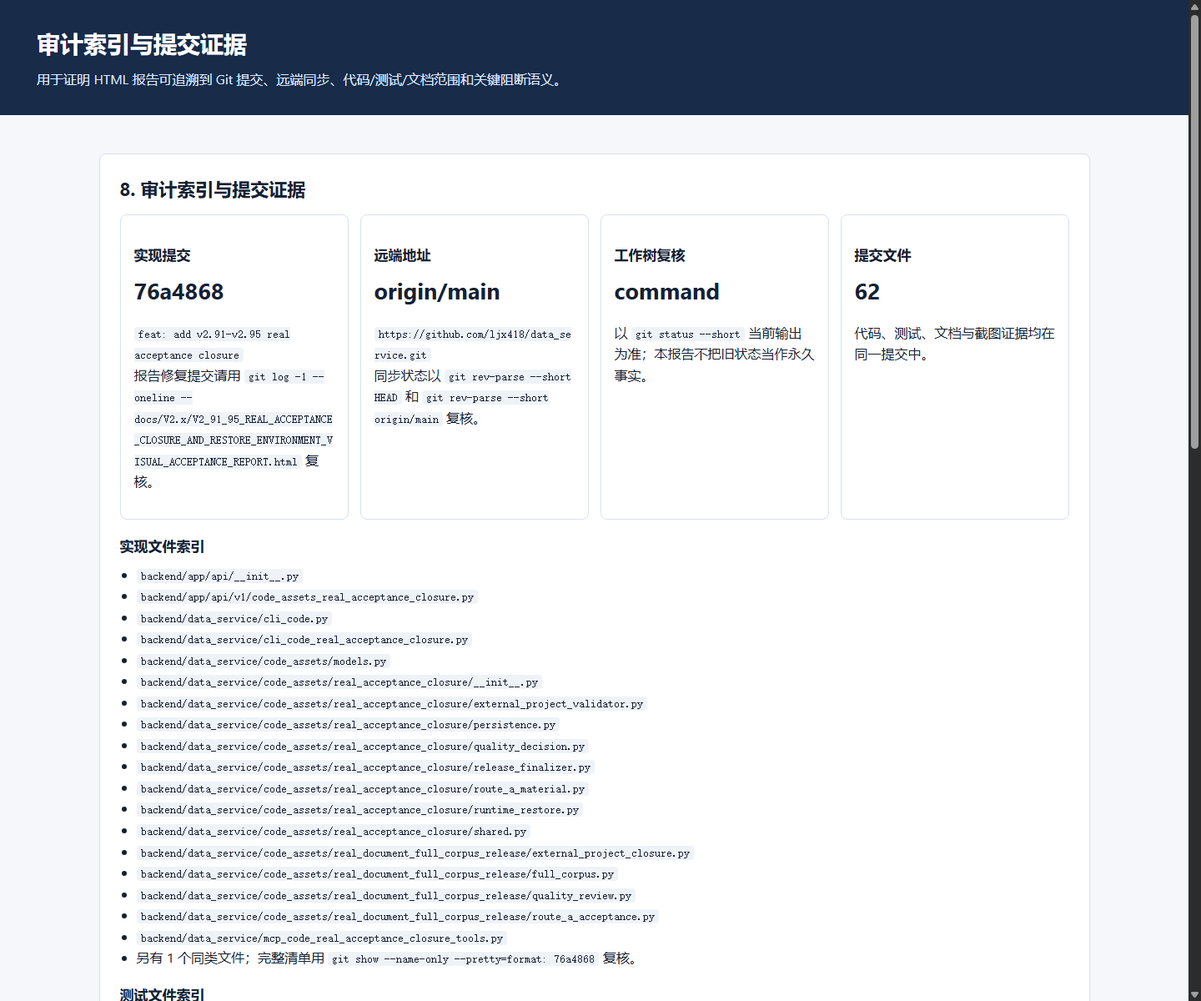
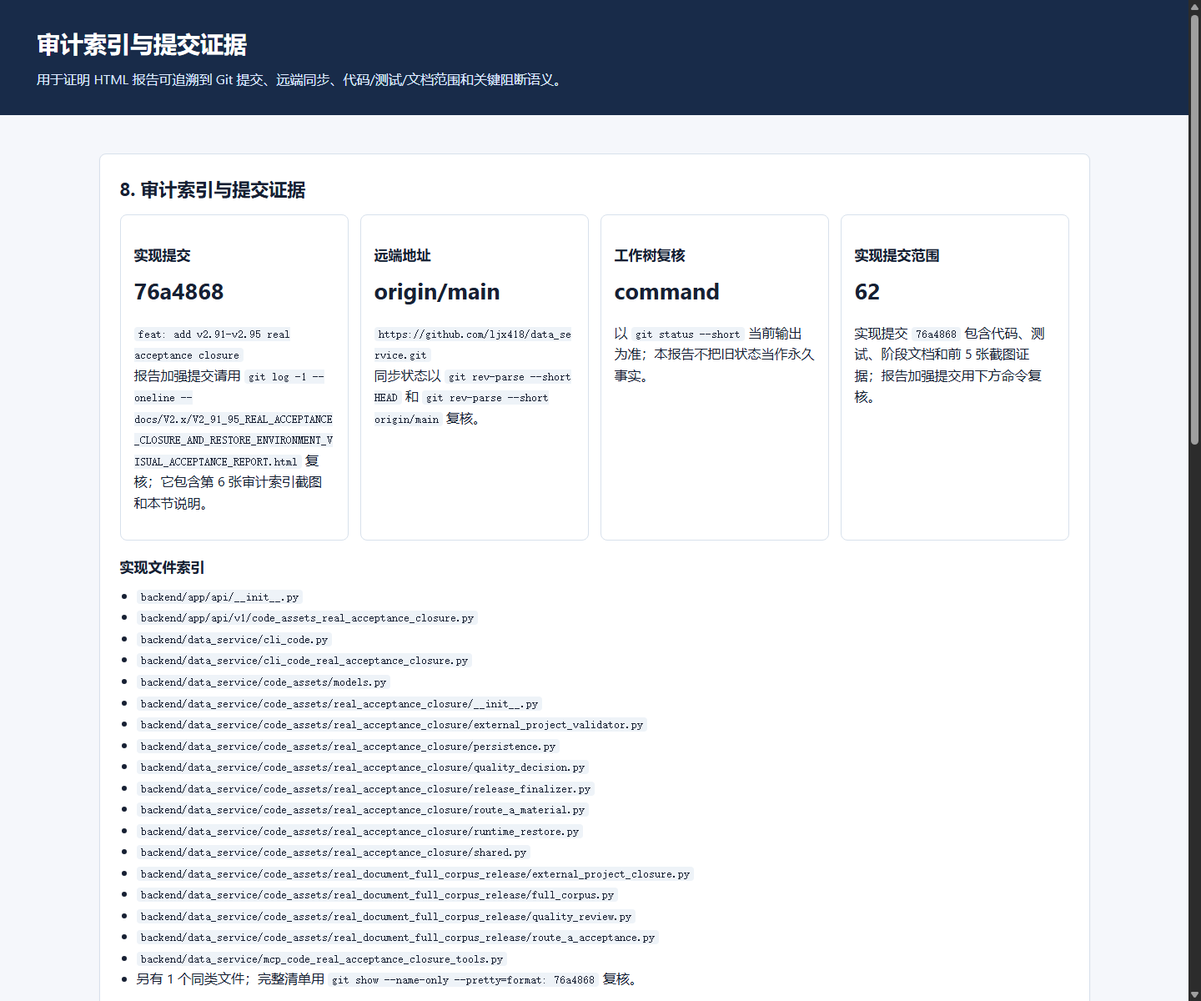
docs: clarify v2.91-v2.95 audit traceability

diff --git a/docs/V2.x/V2_91_95_REAL_ACCEPTANCE_CLOSURE_AND_RESTORE_ENVIRONMENT_VISUAL_ACCEPTANCE_REPORT.html b/docs/V2.x/V2_91_95_REAL_ACCEPTANCE_CLOSURE_AND_RESTORE_ENVIRONMENT_VISUAL_ACCEPTANCE_REPORT.html
@@ -30,8 +30,8 @@
 <tr><td>protected_legacy_diff</td><td><span class="badge ok">accepted</span></td><td>证据完整或无阻断</td></tr>
 <tr><td>prd_spec_review</td><td><span class="badge ok">accepted</span></td><td>证据完整或无阻断</td></tr>
 <tr><td>human_approval</td><td><span class="badge warn">needs_review</span></td><td>human_approval is not accepted</td></tr></tbody></table><p class="note">False-green audit 通过的含义是：系统拒绝 final accepted claim，而不是 final release 已通过。</p></section>
-<section class="section"><h2>7. 截图证据 Manifest</h2><table><thead><tr><th>截图</th><th>主题</th><th>证明内容</th><th>尺寸</th><th>字节数</th><th>sha256</th></tr></thead><tbody><tr><td><code>01_overview.png</code></td><td>总览状态</td><td>展示实现范围通过、最终 release gate 阻断和各子阶段状态。</td><td>1440 x 1200</td><td>63364</td><td><code>29b043270314271b456657d1407e10edfd96d40c8590bd74e4eda8be7669349c</code></td></tr><tr><td><code>02_architecture.png</code></td><td>目标架构与当前实现</td><td>展示 public surface、服务实现层、证据层和边界。</td><td>1440 x 1200</td><td>82657</td><td><code>ff89b044612d9067eb555b5edc5d3c99397f6279d829406795f4679774fc1a9f</code></td></tr><tr><td><code>03_user_path.png</code></td><td>用户场景体验路径</td><td>展示维护者从恢复环境到出门判断的真实体验链路。</td><td>1440 x 1200</td><td>69580</td><td><code>551c1101eeffad781479e9cbf6d4658788ddc67dc0c261240b9c3a18104f2e45</code></td></tr><tr><td><code>04_acceptance_matrix.png</code></td><td>验收矩阵</td><td>展示 runtime 命令、release gate 检查和真实阻断项。</td><td>1440 x 1200</td><td>105333</td><td><code>c72df3a61b9fe80bc3246a5d2f7c4d4837bdbcd22565685585d4aec21381bb39</code></td></tr><tr><td><code>05_evidence_manifest.png</code></td><td>证据与复现清单</td><td>展示测试、编译、diff、legacy guard、CLI caveat 和外部项目状态。</td><td>1440 x 1200</td><td>69668</td><td><code>93c7a7d1bccf666c67e945eb6b46838163e67a423c087adff73c1e526a940c5c</code></td></tr><tr><td><code>06_audit_index.png</code></td><td>审计索引与提交证据</td><td>展示实现提交、远端复核命令、完整文件索引入口、raw artifact 边界和关键阻断语义。</td><td>1440 x 1200</td><td>86903</td><td><code>1f50d263e7e4356daa062143cc2f7710fc208247a4324d849e672732e33334d1</code></td></tr></tbody></table><div class="screens"><figure><img src="visual_acceptance_assets/v2_91_95/01_overview.png" alt="总览状态"><figcaption>总览状态：展示实现范围通过、最终 release gate 阻断和各子阶段状态。 sha256=29b043270314271b...</figcaption></figure><figure><img src="visual_acceptance_assets/v2_91_95/02_architecture.png" alt="目标架构与当前实现"><figcaption>目标架构与当前实现：展示 public surface、服务实现层、证据层和边界。 sha256=ff89b044612d9067...</figcaption></figure><figure><img src="visual_acceptance_assets/v2_91_95/03_user_path.png" alt="用户场景体验路径"><figcaption>用户场景体验路径：展示维护者从恢复环境到出门判断的真实体验链路。 sha256=551c1101eeffad78...</figcaption></figure><figure><img src="visual_acceptance_assets/v2_91_95/04_acceptance_matrix.png" alt="验收矩阵"><figcaption>验收矩阵：展示 runtime 命令、release gate 检查和真实阻断项。 sha256=c72df3a61b9fe80b...</figcaption></figure><figure><img src="visual_acceptance_assets/v2_91_95/05_evidence_manifest.png" alt="证据与复现清单"><figcaption>证据与复现清单：展示测试、编译、diff、legacy guard、CLI caveat 和外部项目状态。 sha256=93c7a7d1bccf666c...</figcaption></figure><figure><img src="visual_acceptance_assets/v2_91_95/06_audit_index.png" alt="审计索引与提交证据"><figcaption>审计索引与提交证据：展示实现提交、远端复核命令、完整文件索引入口、raw artifact 边界和关键阻断语义。 sha256=1f50d263e7e4356d...</figcaption></figure></div></section>
-<section class="section"><h2>8. 审计索引与提交证据</h2><div class="grid"><div class="card"><h3>实现提交</h3><div class="metric">76a4868</div><p><code>feat: add v2.91-v2.95 real acceptance closure</code><br>报告修复提交请用 <code>git log -1 --oneline -- docs/V2.x/V2_91_95_REAL_ACCEPTANCE_CLOSURE_AND_RESTORE_ENVIRONMENT_VISUAL_ACCEPTANCE_REPORT.html</code> 复核。</p></div><div class="card"><h3>远端地址</h3><div class="metric">origin/main</div><p><code>https://github.com/ljx418/data_service.git</code><br>同步状态以 <code>git rev-parse --short HEAD</code> 和 <code>git rev-parse --short origin/main</code> 复核。</p></div><div class="card"><h3>工作树复核</h3><div class="metric">command</div><p>以 <code>git status --short</code> 当前输出为准；本报告不把旧状态当作永久事实。</p></div><div class="card"><h3>提交文件</h3><div class="metric">62</div><p>代码、测试、文档与截图证据均在同一提交中。</p></div></div><h3>实现文件索引</h3><ul><li><code>backend/app/api/__init__.py</code></li><li><code>backend/app/api/v1/code_assets_real_acceptance_closure.py</code></li><li><code>backend/data_service/cli_code.py</code></li><li><code>backend/data_service/cli_code_real_acceptance_closure.py</code></li><li><code>backend/data_service/code_assets/models.py</code></li><li><code>backend/data_service/code_assets/real_acceptance_closure/__init__.py</code></li><li><code>backend/data_service/code_assets/real_acceptance_closure/external_project_validator.py</code></li><li><code>backend/data_service/code_assets/real_acceptance_closure/persistence.py</code></li><li><code>backend/data_service/code_assets/real_acceptance_closure/quality_decision.py</code></li><li><code>backend/data_service/code_assets/real_acceptance_closure/release_finalizer.py</code></li><li><code>backend/data_service/code_assets/real_acceptance_closure/route_a_material.py</code></li><li><code>backend/data_service/code_assets/real_acceptance_closure/runtime_restore.py</code></li><li><code>backend/data_service/code_assets/real_acceptance_closure/shared.py</code></li><li><code>backend/data_service/code_assets/real_document_full_corpus_release/external_project_closure.py</code></li><li><code>backend/data_service/code_assets/real_document_full_corpus_release/full_corpus.py</code></li><li><code>backend/data_service/code_assets/real_document_full_corpus_release/quality_review.py</code></li><li><code>backend/data_service/code_assets/real_document_full_corpus_release/route_a_acceptance.py</code></li><li><code>backend/data_service/mcp_code_real_acceptance_closure_tools.py</code></li><li>另有 1 个同类文件；完整清单用 <code>git show --name-only --pretty=format: 76a4868</code> 复核。</li></ul><h3>测试文件索引</h3><ul><li><code>backend/tests/test_public_surface_guard.py</code></li><li><code>backend/tests/test_v2_91_restoreable_acceptance_runtime.py</code></li><li><code>backend/tests/test_v2_92_route_a_material_closure.py</code></li><li><code>backend/tests/test_v2_93_human_quality_decision_closure.py</code></li><li><code>backend/tests/test_v2_94_external_project_path_e2e_closure.py</code></li><li><code>backend/tests/test_v2_95_final_release_gate_closure.py</code></li></ul><h3>文档与可视化证据索引</h3><ul><li><code>docs/V2.x/V2_91_95_REAL_ACCEPTANCE_CLOSURE_AND_RESTORE_ENVIRONMENT_DEVELOPMENT_AND_ACCEPTANCE_PLAN.md</code></li><li><code>docs/V2.x/V2_91_95_REAL_ACCEPTANCE_CLOSURE_AND_RESTORE_ENVIRONMENT_DOCUMENT_AUDIT_REPORT.md</code></li><li><code>docs/V2.x/V2_91_95_REAL_ACCEPTANCE_CLOSURE_AND_RESTORE_ENVIRONMENT_FULL_COVERAGE_MATRIX.md</code></li><li><code>docs/V2.x/V2_91_95_REAL_ACCEPTANCE_CLOSURE_AND_RESTORE_ENVIRONMENT_GAP_ANALYSIS.md</code></li><li><code>docs/V2.x/V2_91_95_REAL_ACCEPTANCE_CLOSURE_AND_RESTORE_ENVIRONMENT_IMPLEMENTATION_BLUEPRINT_AND_ACCEPTANCE_SPEC.md</code></li><li><code>docs/V2.x/V2_91_95_REAL_ACCEPTANCE_CLOSURE_AND_RESTORE_ENVIRONMENT_MILESTONES_AND_EXIT_GATES.md</code></li><li><code>docs/V2.x/V2_91_95_REAL_ACCEPTANCE_CLOSURE_AND_RESTORE_ENVIRONMENT_PHASE_167_171_DETAILED_DEVELOPMENT_AND_ACCEPTANCE_PACKAGE.md</code></li><li><code>docs/V2.x/V2_91_95_REAL_ACCEPTANCE_CLOSURE_AND_RESTORE_ENVIRONMENT_PHASE_READINESS_AND_SCHEMA_CONTRACTS.md</code></li><li><code>docs/V2.x/V2_91_95_REAL_ACCEPTANCE_CLOSURE_AND_RESTORE_ENVIRONMENT_PRD.md</code></li><li><code>docs/V2.x/V2_91_95_REAL_ACCEPTANCE_CLOSURE_AND_RESTORE_ENVIRONMENT_PRE_IMPLEMENTATION_AUDIT_REPORT.md</code></li><li><code>docs/V2.x/V2_91_95_REAL_ACCEPTANCE_CLOSURE_AND_RESTORE_ENVIRONMENT_STAGE_ACCEPTANCE_AUDIT_REPORT.md</code></li><li><code>docs/V2.x/V2_91_95_REAL_ACCEPTANCE_CLOSURE_AND_RESTORE_ENVIRONMENT_TARGET_ARCHITECTURE.md</code></li><li><code>docs/V2.x/V2_91_95_REAL_ACCEPTANCE_CLOSURE_AND_RESTORE_ENVIRONMENT_TARGET_STATE.drawio</code></li><li><code>docs/V2.x/V2_91_95_REAL_ACCEPTANCE_CLOSURE_AND_RESTORE_ENVIRONMENT_TEST_AND_E2E_MAPPING.md</code></li><li><code>docs/V2.x/V2_91_95_REAL_ACCEPTANCE_CLOSURE_AND_RESTORE_ENVIRONMENT_VISUAL_ACCEPTANCE_REPORT.html</code></li><li><code>docs/V2.x/V2_91_PHASE_167_ACCEPTANCE_AUDIT_REPORT.md</code></li><li><code>docs/V2.x/V2_91_PHASE_167_DEVELOPMENT_ACCEPTANCE_AND_PRE_IMPLEMENTATION_AUDIT.md</code></li><li><code>docs/V2.x/visual_acceptance_assets/v2_91_95/01_overview.html</code></li><li><code>docs/V2.x/visual_acceptance_assets/v2_91_95/01_overview.png</code></li><li><code>docs/V2.x/visual_acceptance_assets/v2_91_95/02_architecture.html</code></li><li><code>docs/V2.x/visual_acceptance_assets/v2_91_95/02_architecture.png</code></li><li><code>docs/V2.x/visual_acceptance_assets/v2_91_95/03_user_path.html</code></li><li><code>docs/V2.x/visual_acceptance_assets/v2_91_95/03_user_path.png</code></li><li><code>docs/V2.x/visual_acceptance_assets/v2_91_95/04_acceptance_matrix.html</code></li><li>另有 5 个同类文件；完整清单用 <code>git show --name-only --pretty=format: 76a4868</code> 复核。</li></ul><p class="note">本机 raw E2E artifacts 位于 <code>workspace/v2_91_95_stage_audit_e2e/...</code>，未提交到 Git；提交中保留的是 HTML 报告、截图证据、manifest、阶段审计文档和复现命令。人类复核时应按第 5 节命令重新生成或验证 raw artifacts。</p></section>
+<section class="section"><h2>7. 截图证据 Manifest</h2><table><thead><tr><th>截图</th><th>主题</th><th>证明内容</th><th>尺寸</th><th>字节数</th><th>sha256</th></tr></thead><tbody><tr><td><code>01_overview.png</code></td><td>总览状态</td><td>展示实现范围通过、最终 release gate 阻断和各子阶段状态。</td><td>1440 x 1200</td><td>63364</td><td><code>29b043270314271b456657d1407e10edfd96d40c8590bd74e4eda8be7669349c</code></td></tr><tr><td><code>02_architecture.png</code></td><td>目标架构与当前实现</td><td>展示 public surface、服务实现层、证据层和边界。</td><td>1440 x 1200</td><td>82657</td><td><code>ff89b044612d9067eb555b5edc5d3c99397f6279d829406795f4679774fc1a9f</code></td></tr><tr><td><code>03_user_path.png</code></td><td>用户场景体验路径</td><td>展示维护者从恢复环境到出门判断的真实体验链路。</td><td>1440 x 1200</td><td>69580</td><td><code>551c1101eeffad781479e9cbf6d4658788ddc67dc0c261240b9c3a18104f2e45</code></td></tr><tr><td><code>04_acceptance_matrix.png</code></td><td>验收矩阵</td><td>展示 runtime 命令、release gate 检查和真实阻断项。</td><td>1440 x 1200</td><td>105333</td><td><code>c72df3a61b9fe80bc3246a5d2f7c4d4837bdbcd22565685585d4aec21381bb39</code></td></tr><tr><td><code>05_evidence_manifest.png</code></td><td>证据与复现清单</td><td>展示测试、编译、diff、legacy guard、CLI caveat 和外部项目状态。</td><td>1440 x 1200</td><td>69668</td><td><code>93c7a7d1bccf666c67e945eb6b46838163e67a423c087adff73c1e526a940c5c</code></td></tr><tr><td><code>06_audit_index.png</code></td><td>审计索引与提交证据</td><td>展示实现提交范围、报告加强提交复核命令、raw artifact 边界和关键阻断语义。</td><td>1440 x 1200</td><td>90058</td><td><code>91a256cf44c9064e61b9f89553aba43f32dc3f8183810644c13fe38c335659dc</code></td></tr></tbody></table><div class="screens"><figure><img src="visual_acceptance_assets/v2_91_95/01_overview.png" alt="总览状态"><figcaption>总览状态：展示实现范围通过、最终 release gate 阻断和各子阶段状态。 sha256=29b043270314271b...</figcaption></figure><figure><img src="visual_acceptance_assets/v2_91_95/02_architecture.png" alt="目标架构与当前实现"><figcaption>目标架构与当前实现：展示 public surface、服务实现层、证据层和边界。 sha256=ff89b044612d9067...</figcaption></figure><figure><img src="visual_acceptance_assets/v2_91_95/03_user_path.png" alt="用户场景体验路径"><figcaption>用户场景体验路径：展示维护者从恢复环境到出门判断的真实体验链路。 sha256=551c1101eeffad78...</figcaption></figure><figure><img src="visual_acceptance_assets/v2_91_95/04_acceptance_matrix.png" alt="验收矩阵"><figcaption>验收矩阵：展示 runtime 命令、release gate 检查和真实阻断项。 sha256=c72df3a61b9fe80b...</figcaption></figure><figure><img src="visual_acceptance_assets/v2_91_95/05_evidence_manifest.png" alt="证据与复现清单"><figcaption>证据与复现清单：展示测试、编译、diff、legacy guard、CLI caveat 和外部项目状态。 sha256=93c7a7d1bccf666c...</figcaption></figure><figure><img src="visual_acceptance_assets/v2_91_95/06_audit_index.png" alt="审计索引与提交证据"><figcaption>审计索引与提交证据：展示实现提交范围、报告加强提交复核命令、raw artifact 边界和关键阻断语义。 sha256=91a256cf44c9064e...</figcaption></figure></div></section>
+<section class="section"><h2>8. 审计索引与提交证据</h2><div class="grid"><div class="card"><h3>实现提交</h3><div class="metric">76a4868</div><p><code>feat: add v2.91-v2.95 real acceptance closure</code><br>报告加强提交请用 <code>git log -1 --oneline -- docs/V2.x/V2_91_95_REAL_ACCEPTANCE_CLOSURE_AND_RESTORE_ENVIRONMENT_VISUAL_ACCEPTANCE_REPORT.html</code> 复核；它包含第 6 张审计索引截图和本节说明。</p></div><div class="card"><h3>远端地址</h3><div class="metric">origin/main</div><p><code>https://github.com/ljx418/data_service.git</code><br>同步状态以 <code>git rev-parse --short HEAD</code> 和 <code>git rev-parse --short origin/main</code> 复核。</p></div><div class="card"><h3>工作树复核</h3><div class="metric">command</div><p>以 <code>git status --short</code> 当前输出为准；本报告不把旧状态当作永久事实。</p></div><div class="card"><h3>实现提交范围</h3><div class="metric">62</div><p>实现提交 <code>76a4868</code> 包含代码、测试、阶段文档和前 5 张截图证据；报告加强提交用下方命令复核。</p></div></div><h3>实现文件索引</h3><ul><li><code>backend/app/api/__init__.py</code></li><li><code>backend/app/api/v1/code_assets_real_acceptance_closure.py</code></li><li><code>backend/data_service/cli_code.py</code></li><li><code>backend/data_service/cli_code_real_acceptance_closure.py</code></li><li><code>backend/data_service/code_assets/models.py</code></li><li><code>backend/data_service/code_assets/real_acceptance_closure/__init__.py</code></li><li><code>backend/data_service/code_assets/real_acceptance_closure/external_project_validator.py</code></li><li><code>backend/data_service/code_assets/real_acceptance_closure/persistence.py</code></li><li><code>backend/data_service/code_assets/real_acceptance_closure/quality_decision.py</code></li><li><code>backend/data_service/code_assets/real_acceptance_closure/release_finalizer.py</code></li><li><code>backend/data_service/code_assets/real_acceptance_closure/route_a_material.py</code></li><li><code>backend/data_service/code_assets/real_acceptance_closure/runtime_restore.py</code></li><li><code>backend/data_service/code_assets/real_acceptance_closure/shared.py</code></li><li><code>backend/data_service/code_assets/real_document_full_corpus_release/external_project_closure.py</code></li><li><code>backend/data_service/code_assets/real_document_full_corpus_release/full_corpus.py</code></li><li><code>backend/data_service/code_assets/real_document_full_corpus_release/quality_review.py</code></li><li><code>backend/data_service/code_assets/real_document_full_corpus_release/route_a_acceptance.py</code></li><li><code>backend/data_service/mcp_code_real_acceptance_closure_tools.py</code></li><li>另有 1 个同类文件；完整清单用 <code>git show --name-only --pretty=format: 76a4868</code> 复核。</li></ul><h3>测试文件索引</h3><ul><li><code>backend/tests/test_public_surface_guard.py</code></li><li><code>backend/tests/test_v2_91_restoreable_acceptance_runtime.py</code></li><li><code>backend/tests/test_v2_92_route_a_material_closure.py</code></li><li><code>backend/tests/test_v2_93_human_quality_decision_closure.py</code></li><li><code>backend/tests/test_v2_94_external_project_path_e2e_closure.py</code></li><li><code>backend/tests/test_v2_95_final_release_gate_closure.py</code></li></ul><h3>文档与可视化证据索引</h3><ul><li><code>docs/V2.x/V2_91_95_REAL_ACCEPTANCE_CLOSURE_AND_RESTORE_ENVIRONMENT_DEVELOPMENT_AND_ACCEPTANCE_PLAN.md</code></li><li><code>docs/V2.x/V2_91_95_REAL_ACCEPTANCE_CLOSURE_AND_RESTORE_ENVIRONMENT_DOCUMENT_AUDIT_REPORT.md</code></li><li><code>docs/V2.x/V2_91_95_REAL_ACCEPTANCE_CLOSURE_AND_RESTORE_ENVIRONMENT_FULL_COVERAGE_MATRIX.md</code></li><li><code>docs/V2.x/V2_91_95_REAL_ACCEPTANCE_CLOSURE_AND_RESTORE_ENVIRONMENT_GAP_ANALYSIS.md</code></li><li><code>docs/V2.x/V2_91_95_REAL_ACCEPTANCE_CLOSURE_AND_RESTORE_ENVIRONMENT_IMPLEMENTATION_BLUEPRINT_AND_ACCEPTANCE_SPEC.md</code></li><li><code>docs/V2.x/V2_91_95_REAL_ACCEPTANCE_CLOSURE_AND_RESTORE_ENVIRONMENT_MILESTONES_AND_EXIT_GATES.md</code></li><li><code>docs/V2.x/V2_91_95_REAL_ACCEPTANCE_CLOSURE_AND_RESTORE_ENVIRONMENT_PHASE_167_171_DETAILED_DEVELOPMENT_AND_ACCEPTANCE_PACKAGE.md</code></li><li><code>docs/V2.x/V2_91_95_REAL_ACCEPTANCE_CLOSURE_AND_RESTORE_ENVIRONMENT_PHASE_READINESS_AND_SCHEMA_CONTRACTS.md</code></li><li><code>docs/V2.x/V2_91_95_REAL_ACCEPTANCE_CLOSURE_AND_RESTORE_ENVIRONMENT_PRD.md</code></li><li><code>docs/V2.x/V2_91_95_REAL_ACCEPTANCE_CLOSURE_AND_RESTORE_ENVIRONMENT_PRE_IMPLEMENTATION_AUDIT_REPORT.md</code></li><li><code>docs/V2.x/V2_91_95_REAL_ACCEPTANCE_CLOSURE_AND_RESTORE_ENVIRONMENT_STAGE_ACCEPTANCE_AUDIT_REPORT.md</code></li><li><code>docs/V2.x/V2_91_95_REAL_ACCEPTANCE_CLOSURE_AND_RESTORE_ENVIRONMENT_TARGET_ARCHITECTURE.md</code></li><li><code>docs/V2.x/V2_91_95_REAL_ACCEPTANCE_CLOSURE_AND_RESTORE_ENVIRONMENT_TARGET_STATE.drawio</code></li><li><code>docs/V2.x/V2_91_95_REAL_ACCEPTANCE_CLOSURE_AND_RESTORE_ENVIRONMENT_TEST_AND_E2E_MAPPING.md</code></li><li><code>docs/V2.x/V2_91_95_REAL_ACCEPTANCE_CLOSURE_AND_RESTORE_ENVIRONMENT_VISUAL_ACCEPTANCE_REPORT.html</code></li><li><code>docs/V2.x/V2_91_PHASE_167_ACCEPTANCE_AUDIT_REPORT.md</code></li><li><code>docs/V2.x/V2_91_PHASE_167_DEVELOPMENT_ACCEPTANCE_AND_PRE_IMPLEMENTATION_AUDIT.md</code></li><li><code>docs/V2.x/visual_acceptance_assets/v2_91_95/01_overview.html</code></li><li><code>docs/V2.x/visual_acceptance_assets/v2_91_95/01_overview.png</code></li><li><code>docs/V2.x/visual_acceptance_assets/v2_91_95/02_architecture.html</code></li><li><code>docs/V2.x/visual_acceptance_assets/v2_91_95/02_architecture.png</code></li><li><code>docs/V2.x/visual_acceptance_assets/v2_91_95/03_user_path.html</code></li><li><code>docs/V2.x/visual_acceptance_assets/v2_91_95/03_user_path.png</code></li><li><code>docs/V2.x/visual_acceptance_assets/v2_91_95/04_acceptance_matrix.html</code></li><li>另有 5 个同类文件；完整清单用 <code>git show --name-only --pretty=format: 76a4868</code> 复核。</li></ul><p class="note">本机 raw E2E artifacts 位于 <code>workspace/v2_91_95_stage_audit_e2e/...</code>，未提交到 Git；Git 中保留的是 HTML 报告、截图证据、manifest、阶段审计文档和复现命令。人类复核时应按第 5 节命令重新生成或验证 raw artifacts。</p></section>
 <section class="section"><h2>9. 关键阻断语义说明</h2><table><thead><tr><th>现象</th><th>不能误判为</th><th>正确审计解释</th></tr></thead><tbody><tr><td>focused regression accepted</td><td>V2.91 Runtime accepted</td><td>focused regression 只是 runtime 的一个子检查；venv 创建失败时 runtime 仍必须是 structured_blocker。</td></tr><tr><td>V2.86 Full Corpus 曾在上一阶段 accepted</td><td>本轮 V2.95 fresh release gate 自动 accepted</td><td>本轮 fresh stage audit workspace 未重新注入 Route B / Full Corpus 上游 artifacts，因此 final gate 中对应项保持 needs_review。该结果用于证明 release gate 不会凭文档 claim 放行。</td></tr><tr><td>data_service external smoke 可执行</td><td>所有外部项目 E2E accepted</td><td>codexPat、HarnessOS、Navia 缺真实可读路径，必须保持 structured_unavailable。</td></tr><tr><td>report 有截图</td><td>Route A 人工验收完成</td><td>截图证明报告呈现和审计路径，不替代用户代表性真实资料、脱敏审查和人工验收记录。</td></tr><tr><td>MCP/HTTP/parser inventory 已测试</td><td>默认 shell CLI accepted</td><td><code>python -m data_service code real-acceptance-closure --help</code> 当前仍被 legacy parser 拒绝，报告已列为 CLI execution gap。</td></tr></tbody></table></section>
 <section class="section"><h2>10. 人类复核清单</h2><ol><li>复核第 2 节 PRD 能力是否全部映射到真实状态。</li><li>复核第 3 节代码实体和当前架构差异是否清楚。</li><li>复跑第 5 节命令，确认 focused tests、compileall、diff check 和 protected diff。</li><li>确认第 6 节没有把 Route A、质量人工审查、外部项目和 human approval 写成 accepted。</li><li>查看第 7 节截图、尺寸和 sha256，确认截图与报告结论一致。</li></ol></section>
 <section class="section"><h2>11. 最终验收评价</h2><p><strong>阶段性自动化开发验收：通过，但带真实阻断。</strong> 本阶段文档完整支撑的实现面、测试面、公开接口面和审计面已完成并可复核；本报告已补齐提交证据、文件索引、截图 manifest 和关键阻断语义说明。</p><p><strong>最终出门验收：不通过。</strong> 不通过原因不是代码测试失败，而是本机 venv 创建支持、Route A 真实资料、人工质量决策、外部项目路径、dependency hygiene 和 human approval 仍缺真实证据。</p></section>

diff --git a/docs/V2.x/visual_acceptance_assets/v2_91_95/06_audit_index.html b/docs/V2.x/visual_acceptance_assets/v2_91_95/06_audit_index.html
@@ -1,3 +1,3 @@
 <!doctype html><html lang="zh-CN"><head><meta charset="utf-8"><title>审计索引与提交证据</title><style>
 :root{--bg:#f5f7fb;--panel:#fff;--ink:#172033;--muted:#5d6b82;--line:#d8e1ec;--ok:#137a4a;--warn:#9b6a00;--blocked:#92370f;--bad:#b42318;--blue:#265da8;--teal:#0b7b72;--purple:#68469b}*{box-sizing:border-box}body{margin:0;background:var(--bg);color:var(--ink);font-family:-apple-system,BlinkMacSystemFont,"Segoe UI","Microsoft YaHei",Arial,sans-serif;line-height:1.58}header{background:#182b49;color:#fff;padding:30px 44px}header h1{margin:0;font-size:28px;letter-spacing:0}header p{margin:8px 0 0;color:#dbe8ff}.wrap{max-width:1240px;margin:0 auto;padding:26px}.section{background:var(--panel);border:1px solid var(--line);border-radius:8px;padding:24px;margin:20px 0;box-shadow:0 1px 2px rgba(16,24,40,.06)}h2{font-size:22px;margin:0 0 14px}h3{font-size:17px;margin:18px 0 8px}.grid{display:grid;grid-template-columns:repeat(4,1fr);gap:14px}.card{border:1px solid var(--line);border-radius:8px;padding:16px;background:#fff}.metric{font-size:27px;font-weight:780;overflow-wrap:anywhere}.badge{display:inline-block;border:1px solid currentColor;border-radius:999px;padding:3px 10px;font-size:12px;font-weight:750;white-space:nowrap}.ok{color:var(--ok);background:#ecfdf3}.warn{color:var(--warn);background:#fff8df}.blocked{color:var(--blocked);background:#fff1e8}.unavailable{color:#6941c6;background:#f4f0ff}.bad{color:var(--bad);background:#fef3f2}table{border-collapse:collapse;width:100%;font-size:14px}th,td{border:1px solid var(--line);padding:10px 12px;text-align:left;vertical-align:top}th{background:#eef3f8}.layers{display:grid;grid-template-columns:1fr 1fr 1fr;gap:14px}.layer{border:1px solid var(--line);border-left:6px solid var(--blue);border-radius:8px;padding:16px;background:#fbfdff}.layer:nth-child(2){border-left-color:var(--teal)}.layer:nth-child(3){border-left-color:var(--purple)}.flow{display:grid;grid-template-columns:repeat(5,1fr);gap:12px}.node{border:2px solid var(--line);border-radius:8px;padding:14px;min-height:145px;background:#fff}.node.okline{border-color:var(--ok)}.node.warnline{border-color:var(--warn)}.node.blockline{border-color:var(--blocked)}.screens{display:grid;grid-template-columns:repeat(2,1fr);gap:16px}.screens img{width:100%;border:1px solid var(--line);border-radius:8px;background:#fff}.note{background:#fff8e6;border:1px solid #f1ce75;border-radius:8px;padding:14px}.audit-pass{background:#eafaf1;border:1px solid #a6d7bb;border-radius:8px;padding:14px}.audit-block{background:#fff1e8;border:1px solid #f5b28b;border-radius:8px;padding:14px}code{background:#eef3f8;border-radius:4px;padding:2px 5px;word-break:break-word}.small{font-size:13px;color:var(--muted)}ul,ol{margin:8px 0 0;padding-left:20px}@media(max-width:920px){.grid,.layers,.flow,.screens{grid-template-columns:1fr}.wrap{padding:16px}header{padding:24px}}
-</style></head><body><header><h1>审计索引与提交证据</h1><p>用于证明 HTML 报告可追溯到 Git 提交、远端同步、代码/测试/文档范围和关键阻断语义。</p></header><main class="wrap"><section class="section"><h2>8. 审计索引与提交证据</h2><div class="grid"><div class="card"><h3>实现提交</h3><div class="metric">76a4868</div><p><code>feat: add v2.91-v2.95 real acceptance closure</code><br>报告修复提交请用 <code>git log -1 --oneline -- docs/V2.x/V2_91_95_REAL_ACCEPTANCE_CLOSURE_AND_RESTORE_ENVIRONMENT_VISUAL_ACCEPTANCE_REPORT.html</code> 复核。</p></div><div class="card"><h3>远端地址</h3><div class="metric">origin/main</div><p><code>https://github.com/ljx418/data_service.git</code><br>同步状态以 <code>git rev-parse --short HEAD</code> 和 <code>git rev-parse --short origin/main</code> 复核。</p></div><div class="card"><h3>工作树复核</h3><div class="metric">command</div><p>以 <code>git status --short</code> 当前输出为准；本报告不把旧状态当作永久事实。</p></div><div class="card"><h3>提交文件</h3><div class="metric">62</div><p>代码、测试、文档与截图证据均在同一提交中。</p></div></div><h3>实现文件索引</h3><ul><li><code>backend/app/api/__init__.py</code></li><li><code>backend/app/api/v1/code_assets_real_acceptance_closure.py</code></li><li><code>backend/data_service/cli_code.py</code></li><li><code>backend/data_service/cli_code_real_acceptance_closure.py</code></li><li><code>backend/data_service/code_assets/models.py</code></li><li><code>backend/data_service/code_assets/real_acceptance_closure/__init__.py</code></li><li><code>backend/data_service/code_assets/real_acceptance_closure/external_project_validator.py</code></li><li><code>backend/data_service/code_assets/real_acceptance_closure/persistence.py</code></li><li><code>backend/data_service/code_assets/real_acceptance_closure/quality_decision.py</code></li><li><code>backend/data_service/code_assets/real_acceptance_closure/release_finalizer.py</code></li><li><code>backend/data_service/code_assets/real_acceptance_closure/route_a_material.py</code></li><li><code>backend/data_service/code_assets/real_acceptance_closure/runtime_restore.py</code></li><li><code>backend/data_service/code_assets/real_acceptance_closure/shared.py</code></li><li><code>backend/data_service/code_assets/real_document_full_corpus_release/external_project_closure.py</code></li><li><code>backend/data_service/code_assets/real_document_full_corpus_release/full_corpus.py</code></li><li><code>backend/data_service/code_assets/real_document_full_corpus_release/quality_review.py</code></li><li><code>backend/data_service/code_assets/real_document_full_corpus_release/route_a_acceptance.py</code></li><li><code>backend/data_service/mcp_code_real_acceptance_closure_tools.py</code></li><li>另有 1 个同类文件；完整清单用 <code>git show --name-only --pretty=format: 76a4868</code> 复核。</li></ul><h3>测试文件索引</h3><ul><li><code>backend/tests/test_public_surface_guard.py</code></li><li><code>backend/tests/test_v2_91_restoreable_acceptance_runtime.py</code></li><li><code>backend/tests/test_v2_92_route_a_material_closure.py</code></li><li><code>backend/tests/test_v2_93_human_quality_decision_closure.py</code></li><li><code>backend/tests/test_v2_94_external_project_path_e2e_closure.py</code></li><li><code>backend/tests/test_v2_95_final_release_gate_closure.py</code></li></ul><h3>文档与可视化证据索引</h3><ul><li><code>docs/V2.x/V2_91_95_REAL_ACCEPTANCE_CLOSURE_AND_RESTORE_ENVIRONMENT_DEVELOPMENT_AND_ACCEPTANCE_PLAN.md</code></li><li><code>docs/V2.x/V2_91_95_REAL_ACCEPTANCE_CLOSURE_AND_RESTORE_ENVIRONMENT_DOCUMENT_AUDIT_REPORT.md</code></li><li><code>docs/V2.x/V2_91_95_REAL_ACCEPTANCE_CLOSURE_AND_RESTORE_ENVIRONMENT_FULL_COVERAGE_MATRIX.md</code></li><li><code>docs/V2.x/V2_91_95_REAL_ACCEPTANCE_CLOSURE_AND_RESTORE_ENVIRONMENT_GAP_ANALYSIS.md</code></li><li><code>docs/V2.x/V2_91_95_REAL_ACCEPTANCE_CLOSURE_AND_RESTORE_ENVIRONMENT_IMPLEMENTATION_BLUEPRINT_AND_ACCEPTANCE_SPEC.md</code></li><li><code>docs/V2.x/V2_91_95_REAL_ACCEPTANCE_CLOSURE_AND_RESTORE_ENVIRONMENT_MILESTONES_AND_EXIT_GATES.md</code></li><li><code>docs/V2.x/V2_91_95_REAL_ACCEPTANCE_CLOSURE_AND_RESTORE_ENVIRONMENT_PHASE_167_171_DETAILED_DEVELOPMENT_AND_ACCEPTANCE_PACKAGE.md</code></li><li><code>docs/V2.x/V2_91_95_REAL_ACCEPTANCE_CLOSURE_AND_RESTORE_ENVIRONMENT_PHASE_READINESS_AND_SCHEMA_CONTRACTS.md</code></li><li><code>docs/V2.x/V2_91_95_REAL_ACCEPTANCE_CLOSURE_AND_RESTORE_ENVIRONMENT_PRD.md</code></li><li><code>docs/V2.x/V2_91_95_REAL_ACCEPTANCE_CLOSURE_AND_RESTORE_ENVIRONMENT_PRE_IMPLEMENTATION_AUDIT_REPORT.md</code></li><li><code>docs/V2.x/V2_91_95_REAL_ACCEPTANCE_CLOSURE_AND_RESTORE_ENVIRONMENT_STAGE_ACCEPTANCE_AUDIT_REPORT.md</code></li><li><code>docs/V2.x/V2_91_95_REAL_ACCEPTANCE_CLOSURE_AND_RESTORE_ENVIRONMENT_TARGET_ARCHITECTURE.md</code></li><li><code>docs/V2.x/V2_91_95_REAL_ACCEPTANCE_CLOSURE_AND_RESTORE_ENVIRONMENT_TARGET_STATE.drawio</code></li><li><code>docs/V2.x/V2_91_95_REAL_ACCEPTANCE_CLOSURE_AND_RESTORE_ENVIRONMENT_TEST_AND_E2E_MAPPING.md</code></li><li><code>docs/V2.x/V2_91_95_REAL_ACCEPTANCE_CLOSURE_AND_RESTORE_ENVIRONMENT_VISUAL_ACCEPTANCE_REPORT.html</code></li><li><code>docs/V2.x/V2_91_PHASE_167_ACCEPTANCE_AUDIT_REPORT.md</code></li><li><code>docs/V2.x/V2_91_PHASE_167_DEVELOPMENT_ACCEPTANCE_AND_PRE_IMPLEMENTATION_AUDIT.md</code></li><li><code>docs/V2.x/visual_acceptance_assets/v2_91_95/01_overview.html</code></li><li><code>docs/V2.x/visual_acceptance_assets/v2_91_95/01_overview.png</code></li><li><code>docs/V2.x/visual_acceptance_assets/v2_91_95/02_architecture.html</code></li><li><code>docs/V2.x/visual_acceptance_assets/v2_91_95/02_architecture.png</code></li><li><code>docs/V2.x/visual_acceptance_assets/v2_91_95/03_user_path.html</code></li><li><code>docs/V2.x/visual_acceptance_assets/v2_91_95/03_user_path.png</code></li><li><code>docs/V2.x/visual_acceptance_assets/v2_91_95/04_acceptance_matrix.html</code></li><li>另有 5 个同类文件；完整清单用 <code>git show --name-only --pretty=format: 76a4868</code> 复核。</li></ul><p class="note">本机 raw E2E artifacts 位于 <code>workspace/v2_91_95_stage_audit_e2e/...</code>，未提交到 Git；提交中保留的是 HTML 报告、截图证据、manifest、阶段审计文档和复现命令。人类复核时应按第 5 节命令重新生成或验证 raw artifacts。</p></section><section class="section"><h2>9. 关键阻断语义说明</h2><table><thead><tr><th>现象</th><th>不能误判为</th><th>正确审计解释</th></tr></thead><tbody><tr><td>focused regression accepted</td><td>V2.91 Runtime accepted</td><td>focused regression 只是 runtime 的一个子检查；venv 创建失败时 runtime 仍必须是 structured_blocker。</td></tr><tr><td>V2.86 Full Corpus 曾在上一阶段 accepted</td><td>本轮 V2.95 fresh release gate 自动 accepted</td><td>本轮 fresh stage audit workspace 未重新注入 Route B / Full Corpus 上游 artifacts，因此 final gate 中对应项保持 needs_review。该结果用于证明 release gate 不会凭文档 claim 放行。</td></tr><tr><td>data_service external smoke 可执行</td><td>所有外部项目 E2E accepted</td><td>codexPat、HarnessOS、Navia 缺真实可读路径，必须保持 structured_unavailable。</td></tr><tr><td>report 有截图</td><td>Route A 人工验收完成</td><td>截图证明报告呈现和审计路径，不替代用户代表性真实资料、脱敏审查和人工验收记录。</td></tr><tr><td>MCP/HTTP/parser inventory 已测试</td><td>默认 shell CLI accepted</td><td><code>python -m data_service code real-acceptance-closure --help</code> 当前仍被 legacy parser 拒绝，报告已列为 CLI execution gap。</td></tr></tbody></table></section></main></body></html>
+</style></head><body><header><h1>审计索引与提交证据</h1><p>用于证明 HTML 报告可追溯到 Git 提交、远端同步、代码/测试/文档范围和关键阻断语义。</p></header><main class="wrap"><section class="section"><h2>8. 审计索引与提交证据</h2><div class="grid"><div class="card"><h3>实现提交</h3><div class="metric">76a4868</div><p><code>feat: add v2.91-v2.95 real acceptance closure</code><br>报告加强提交请用 <code>git log -1 --oneline -- docs/V2.x/V2_91_95_REAL_ACCEPTANCE_CLOSURE_AND_RESTORE_ENVIRONMENT_VISUAL_ACCEPTANCE_REPORT.html</code> 复核；它包含第 6 张审计索引截图和本节说明。</p></div><div class="card"><h3>远端地址</h3><div class="metric">origin/main</div><p><code>https://github.com/ljx418/data_service.git</code><br>同步状态以 <code>git rev-parse --short HEAD</code> 和 <code>git rev-parse --short origin/main</code> 复核。</p></div><div class="card"><h3>工作树复核</h3><div class="metric">command</div><p>以 <code>git status --short</code> 当前输出为准；本报告不把旧状态当作永久事实。</p></div><div class="card"><h3>实现提交范围</h3><div class="metric">62</div><p>实现提交 <code>76a4868</code> 包含代码、测试、阶段文档和前 5 张截图证据；报告加强提交用下方命令复核。</p></div></div><h3>实现文件索引</h3><ul><li><code>backend/app/api/__init__.py</code></li><li><code>backend/app/api/v1/code_assets_real_acceptance_closure.py</code></li><li><code>backend/data_service/cli_code.py</code></li><li><code>backend/data_service/cli_code_real_acceptance_closure.py</code></li><li><code>backend/data_service/code_assets/models.py</code></li><li><code>backend/data_service/code_assets/real_acceptance_closure/__init__.py</code></li><li><code>backend/data_service/code_assets/real_acceptance_closure/external_project_validator.py</code></li><li><code>backend/data_service/code_assets/real_acceptance_closure/persistence.py</code></li><li><code>backend/data_service/code_assets/real_acceptance_closure/quality_decision.py</code></li><li><code>backend/data_service/code_assets/real_acceptance_closure/release_finalizer.py</code></li><li><code>backend/data_service/code_assets/real_acceptance_closure/route_a_material.py</code></li><li><code>backend/data_service/code_assets/real_acceptance_closure/runtime_restore.py</code></li><li><code>backend/data_service/code_assets/real_acceptance_closure/shared.py</code></li><li><code>backend/data_service/code_assets/real_document_full_corpus_release/external_project_closure.py</code></li><li><code>backend/data_service/code_assets/real_document_full_corpus_release/full_corpus.py</code></li><li><code>backend/data_service/code_assets/real_document_full_corpus_release/quality_review.py</code></li><li><code>backend/data_service/code_assets/real_document_full_corpus_release/route_a_acceptance.py</code></li><li><code>backend/data_service/mcp_code_real_acceptance_closure_tools.py</code></li><li>另有 1 个同类文件；完整清单用 <code>git show --name-only --pretty=format: 76a4868</code> 复核。</li></ul><h3>测试文件索引</h3><ul><li><code>backend/tests/test_public_surface_guard.py</code></li><li><code>backend/tests/test_v2_91_restoreable_acceptance_runtime.py</code></li><li><code>backend/tests/test_v2_92_route_a_material_closure.py</code></li><li><code>backend/tests/test_v2_93_human_quality_decision_closure.py</code></li><li><code>backend/tests/test_v2_94_external_project_path_e2e_closure.py</code></li><li><code>backend/tests/test_v2_95_final_release_gate_closure.py</code></li></ul><h3>文档与可视化证据索引</h3><ul><li><code>docs/V2.x/V2_91_95_REAL_ACCEPTANCE_CLOSURE_AND_RESTORE_ENVIRONMENT_DEVELOPMENT_AND_ACCEPTANCE_PLAN.md</code></li><li><code>docs/V2.x/V2_91_95_REAL_ACCEPTANCE_CLOSURE_AND_RESTORE_ENVIRONMENT_DOCUMENT_AUDIT_REPORT.md</code></li><li><code>docs/V2.x/V2_91_95_REAL_ACCEPTANCE_CLOSURE_AND_RESTORE_ENVIRONMENT_FULL_COVERAGE_MATRIX.md</code></li><li><code>docs/V2.x/V2_91_95_REAL_ACCEPTANCE_CLOSURE_AND_RESTORE_ENVIRONMENT_GAP_ANALYSIS.md</code></li><li><code>docs/V2.x/V2_91_95_REAL_ACCEPTANCE_CLOSURE_AND_RESTORE_ENVIRONMENT_IMPLEMENTATION_BLUEPRINT_AND_ACCEPTANCE_SPEC.md</code></li><li><code>docs/V2.x/V2_91_95_REAL_ACCEPTANCE_CLOSURE_AND_RESTORE_ENVIRONMENT_MILESTONES_AND_EXIT_GATES.md</code></li><li><code>docs/V2.x/V2_91_95_REAL_ACCEPTANCE_CLOSURE_AND_RESTORE_ENVIRONMENT_PHASE_167_171_DETAILED_DEVELOPMENT_AND_ACCEPTANCE_PACKAGE.md</code></li><li><code>docs/V2.x/V2_91_95_REAL_ACCEPTANCE_CLOSURE_AND_RESTORE_ENVIRONMENT_PHASE_READINESS_AND_SCHEMA_CONTRACTS.md</code></li><li><code>docs/V2.x/V2_91_95_REAL_ACCEPTANCE_CLOSURE_AND_RESTORE_ENVIRONMENT_PRD.md</code></li><li><code>docs/V2.x/V2_91_95_REAL_ACCEPTANCE_CLOSURE_AND_RESTORE_ENVIRONMENT_PRE_IMPLEMENTATION_AUDIT_REPORT.md</code></li><li><code>docs/V2.x/V2_91_95_REAL_ACCEPTANCE_CLOSURE_AND_RESTORE_ENVIRONMENT_STAGE_ACCEPTANCE_AUDIT_REPORT.md</code></li><li><code>docs/V2.x/V2_91_95_REAL_ACCEPTANCE_CLOSURE_AND_RESTORE_ENVIRONMENT_TARGET_ARCHITECTURE.md</code></li><li><code>docs/V2.x/V2_91_95_REAL_ACCEPTANCE_CLOSURE_AND_RESTORE_ENVIRONMENT_TARGET_STATE.drawio</code></li><li><code>docs/V2.x/V2_91_95_REAL_ACCEPTANCE_CLOSURE_AND_RESTORE_ENVIRONMENT_TEST_AND_E2E_MAPPING.md</code></li><li><code>docs/V2.x/V2_91_95_REAL_ACCEPTANCE_CLOSURE_AND_RESTORE_ENVIRONMENT_VISUAL_ACCEPTANCE_REPORT.html</code></li><li><code>docs/V2.x/V2_91_PHASE_167_ACCEPTANCE_AUDIT_REPORT.md</code></li><li><code>docs/V2.x/V2_91_PHASE_167_DEVELOPMENT_ACCEPTANCE_AND_PRE_IMPLEMENTATION_AUDIT.md</code></li><li><code>docs/V2.x/visual_acceptance_assets/v2_91_95/01_overview.html</code></li><li><code>docs/V2.x/visual_acceptance_assets/v2_91_95/01_overview.png</code></li><li><code>docs/V2.x/visual_acceptance_assets/v2_91_95/02_architecture.html</code></li><li><code>docs/V2.x/visual_acceptance_assets/v2_91_95/02_architecture.png</code></li><li><code>docs/V2.x/visual_acceptance_assets/v2_91_95/03_user_path.html</code></li><li><code>docs/V2.x/visual_acceptance_assets/v2_91_95/03_user_path.png</code></li><li><code>docs/V2.x/visual_acceptance_assets/v2_91_95/04_acceptance_matrix.html</code></li><li>另有 5 个同类文件；完整清单用 <code>git show --name-only --pretty=format: 76a4868</code> 复核。</li></ul><p class="note">本机 raw E2E artifacts 位于 <code>workspace/v2_91_95_stage_audit_e2e/...</code>，未提交到 Git；Git 中保留的是 HTML 报告、截图证据、manifest、阶段审计文档和复现命令。人类复核时应按第 5 节命令重新生成或验证 raw artifacts。</p></section><section class="section"><h2>9. 关键阻断语义说明</h2><table><thead><tr><th>现象</th><th>不能误判为</th><th>正确审计解释</th></tr></thead><tbody><tr><td>focused regression accepted</td><td>V2.91 Runtime accepted</td><td>focused regression 只是 runtime 的一个子检查；venv 创建失败时 runtime 仍必须是 structured_blocker。</td></tr><tr><td>V2.86 Full Corpus 曾在上一阶段 accepted</td><td>本轮 V2.95 fresh release gate 自动 accepted</td><td>本轮 fresh stage audit workspace 未重新注入 Route B / Full Corpus 上游 artifacts，因此 final gate 中对应项保持 needs_review。该结果用于证明 release gate 不会凭文档 claim 放行。</td></tr><tr><td>data_service external smoke 可执行</td><td>所有外部项目 E2E accepted</td><td>codexPat、HarnessOS、Navia 缺真实可读路径，必须保持 structured_unavailable。</td></tr><tr><td>report 有截图</td><td>Route A 人工验收完成</td><td>截图证明报告呈现和审计路径，不替代用户代表性真实资料、脱敏审查和人工验收记录。</td></tr><tr><td>MCP/HTTP/parser inventory 已测试</td><td>默认 shell CLI accepted</td><td><code>python -m data_service code real-acceptance-closure --help</code> 当前仍被 legacy parser 拒绝，报告已列为 CLI execution gap。</td></tr></tbody></table></section></main></body></html>
